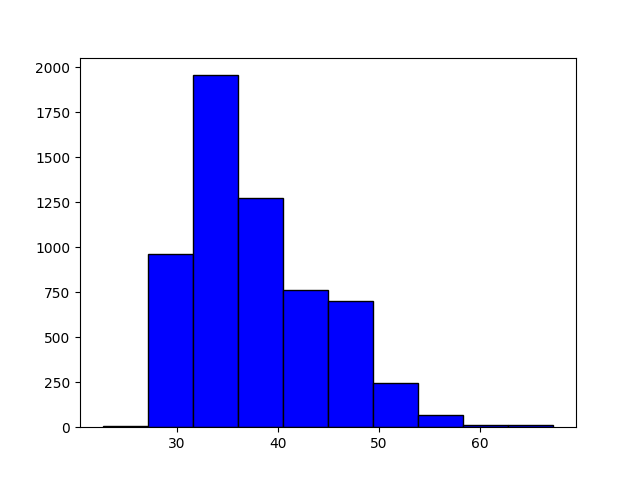
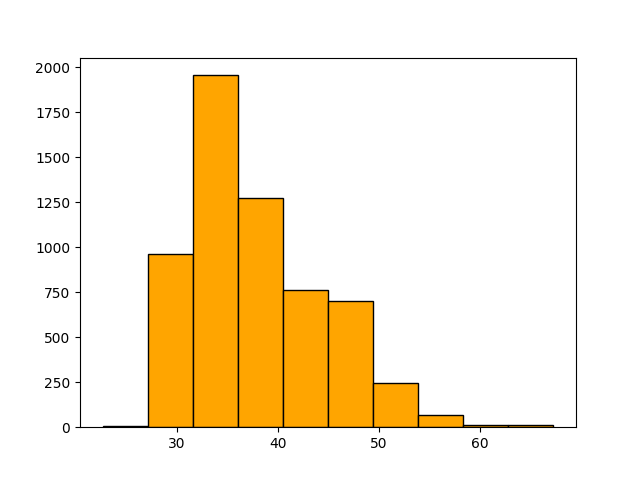
updae

Changed region(s): [[0.2188, 0.1562, 0.75, 0.9062]]

diff --git a/2023/src/drawvariance.py b/2023/src/drawvariance.py
@@ -41,7 +41,7 @@ for image in os.listdir(pathOut):
         # entropy_list.append(entropy)
 
 # plot histogram of variance and entropy with mininumum border
-plt.hist(variance_list, color='blue', edgecolor='black')
+plt.hist(variance_list, color='orange', edgecolor='black')
 # save histogram to file .eps
 plt.savefig('/home/nguyentansy/DATA/PhD-work/PhD-project/2023/src/variance.png'
             )
